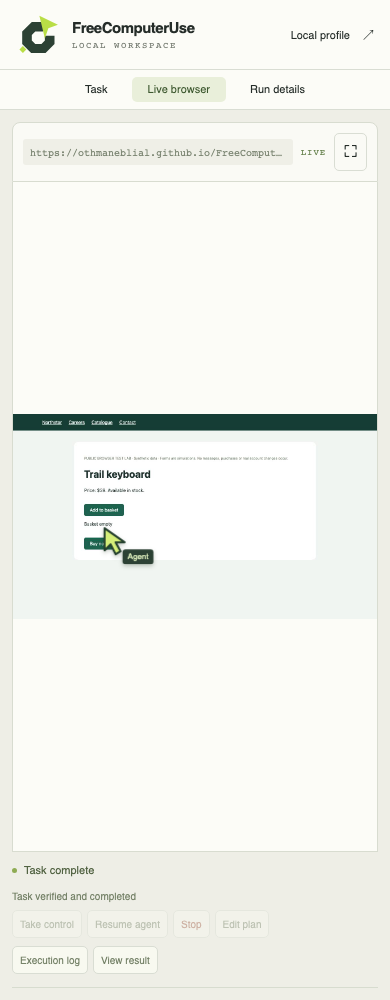
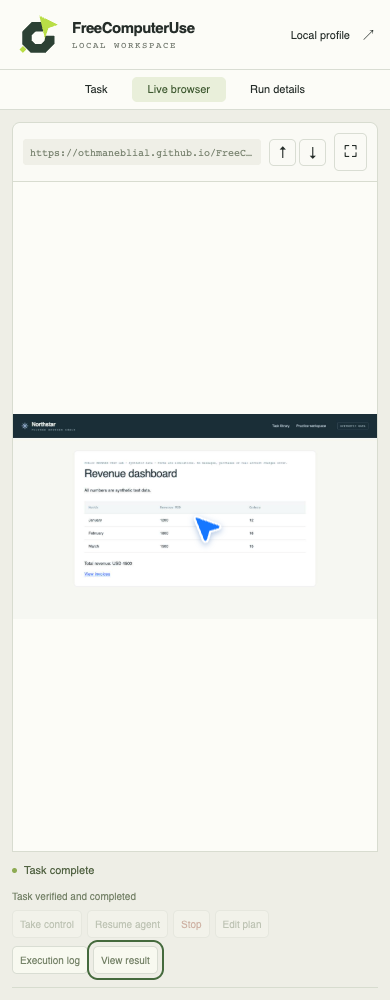
docs: verify keyboard-first sandbox onboarding

diff --git a/scripts/ui-smoke.ts b/scripts/ui-smoke.ts
@@ -11,10 +11,16 @@ const dashboard=await startServer({port:0,quiet:true});const browser=await new B
 const errors:string[]=[];browser.page.on('pageerror',error=>errors.push(error.message));browser.page.on('console',message=>{if(message.type()==='error')errors.push(message.text());});
 try{
   await browser.page.setViewportSize({width:1600,height:1000});await browser.navigate(dashboard.url);
-  await browser.page.locator('#start-url').fill(`https://othmaneblial.github.io/FreeComputerUse/lab/${interaction?'catalogue':'reports'}.html`);
-  await browser.page.locator('#goal').fill(interaction?'Type keyboard into Search products, open Trail keyboard, then extract the product name, price and stock availability.':'Extract the table');
+  const startURL=`https://othmaneblial.github.io/FreeComputerUse/lab/${interaction?'catalogue':'reports'}.html`,goal=interaction?'Type keyboard into Search products, open Trail keyboard, then extract the product name, price and stock availability.':'Extract the table';
+  if(interaction){await browser.page.locator('#start-url').fill(startURL);await browser.page.locator('#goal').fill(goal);}
+  else{
+    const focusId=()=>browser.page.evaluate(()=>{const element=document.activeElement;return element?.id||(element?.getAttribute('aria-label')==='FreeComputerUse home'?'home':'');});
+    const focusWithTab=async(id:string)=>{for(let i=0;i<24&&await focusId()!==id;i++)await browser.page.keyboard.press('Tab');if(await focusId()!==id)throw new Error(`Keyboard focus did not reach ${id}`);};
+    await focusWithTab('home');await focusWithTab('profile-open');await focusWithTab('start-url');await browser.page.keyboard.type(startURL);
+    await focusWithTab('goal');await browser.page.keyboard.type(goal);await focusWithTab('options-open');await focusWithTab('run');await browser.page.keyboard.press('Enter');
+  }
   if(interaction){await browser.page.getByRole('button',{name:'Run options'}).click();await browser.page.locator('#use-workflows').uncheck();await browser.page.getByRole('button',{name:'Close run options'}).click();}
-  await browser.page.getByRole('button',{name:'Run task',exact:true}).click();
+  if(interaction)await browser.page.getByRole('button',{name:'Run task',exact:true}).click();
   await browser.page.locator('#approval').waitFor({state:'visible',timeout:20000});
   if(dashboard.getAgent()?.browser.page.url()!=='about:blank')throw new Error('Site visited before dashboard approval');
   await mkdir('artifacts/ui',{recursive:true});await browser.page.screenshot({path:'artifacts/ui/permission.png'});
@@ -22,15 +28,17 @@ try{
     await browser.page.waitForFunction(()=>['fill','type'].includes(document.querySelector('#agent-cursor')?.getAttribute('data-kind')??''),undefined,{timeout:90000});
     await browser.page.screenshot({path:'artifacts/ui/interaction.png'});
   })().then(()=>({captured:true as const}),error=>({captured:false as const,error:String(error)})):undefined;
-  await browser.page.getByRole('button',{name:'Approve action',exact:true}).click();
+  if(interaction)await browser.page.getByRole('button',{name:'Approve action',exact:true}).click();
+  else{const focusId=()=>browser.page.evaluate(()=>document.activeElement instanceof HTMLElement?document.activeElement.id:'');for(let i=0;i<24&&await focusId()!=='approve';i++)await browser.page.keyboard.press('Tab');if(await focusId()!=='approve')throw new Error('Keyboard focus did not reach site approval');await browser.page.keyboard.press('Enter');}
   await browser.page.waitForFunction(()=>document.querySelector('#status')?.textContent==='COMPLETED',undefined,{timeout:90000});
   try{await browser.page.waitForFunction(()=>(document.querySelector('#preview') as HTMLImageElement)?.naturalWidth>0,undefined,{timeout:10000});}catch(error){console.log(JSON.stringify({errors,preview:await browser.page.locator('#preview').evaluate(el=>({src:(el as HTMLImageElement).src,width:(el as HTMLImageElement).naturalWidth,hidden:(el as HTMLImageElement).hidden})),status:dashboard.getAgent()?.trace?.status}));throw error;}
-  await browser.page.getByRole('button',{name:'View result'}).click();
+  if(interaction)await browser.page.getByRole('button',{name:'View result'}).click();
+  else{const focusId=()=>browser.page.evaluate(()=>document.activeElement instanceof HTMLElement?document.activeElement.id:'');for(let i=0;i<24&&await focusId()!=='result-open';i++)await browser.page.keyboard.press('Tab');if(await focusId()!=='result-open')throw new Error('Keyboard focus did not reach task result');await browser.page.keyboard.press('Enter');}
   const output=await browser.page.locator('#result-output').innerText();
   if(!output.includes(interaction?'Trail keyboard':'March'))throw new Error('Dashboard did not show extracted results');
   if(interaction&&(!output.includes('$39')||!output.includes('Available in stock')||!dashboard.getAgent()?.browser.page.url().endsWith('/product.html')))throw new Error('Product details or destination failed the independent oracle');
   const capture=await cursorCapture;if(capture&&!capture.captured)throw new Error('Visible typing cursor was not captured: '+capture.error);
-  await browser.page.getByRole('button',{name:'Close task result'}).click();
+  if(interaction)await browser.page.getByRole('button',{name:'Close task result'}).click();else await browser.page.keyboard.press('Escape');
   for(const [name,width] of [['desktop',1600],['mobile',390]] as const){
     await browser.page.setViewportSize({width,height:1000});await browser.page.waitForTimeout(600);
     if(!await browser.page.evaluate(()=>document.documentElement.scrollWidth<=innerWidth))throw new Error('Responsive overflow');

diff --git a/README.md b/README.md
@@ -37,7 +37,7 @@ The model does not run shell commands or arbitrary JavaScript. Browser previews 
 
 ## Quick start
 
-Requires **Node.js 22.13+**, npm and a browser Playwright can launch. If Google Chrome is already installed, set `FCU_BROWSER_CHANNEL=chrome` in `.env` to avoid downloading Playwright Chromium. Playwright works best with its matching browser build; see the [browser compatibility note](https://playwright.dev/docs/api/class-browsertype#browser-type-launch) before relying on a system browser.
+Requires **Node.js 22.13+**, npm and an installed browser. The verified first-run setup is macOS 26.6 (Apple Silicon), Node 25.9.0 and system Chrome 154.0.8037.57. The declared Node minimum and other OS/browser combinations remain unverified. This setup selects installed Chrome and avoids a separate Playwright browser download; see the [support matrix](docs/SUPPORT_MATRIX.md) for the full-suite limitation.
 
 ```bash
 git clone https://github.com/OthmaneBlial/FreeComputerUse.git
@@ -47,11 +47,12 @@ cp .env.example .env
 chmod 600 .env
 ```
 
-Set `FCU_BROWSER_CHANNEL=chrome` in `.env` if Chrome is already installed. Playwright-managed Chromium can be installed separately if no supported browser is present.
+Set `FCU_BROWSER_CHANNEL=chrome` in `.env` to use the verified installed-Chrome path without downloading a browser binary.
 
-Set a model API key in `.env`, then run the local workspace:
+For model-planned tasks, configure a provider in `.env`. The browser sandbox task below works without a model key:
 
 ```dotenv
+FCU_BROWSER_CHANNEL=chrome
 LLM_PROVIDER=openai-compatible
 LLM_API_KEY=your-key
 LLM_BASE_URL=https://api.deepseek.com
@@ -59,6 +60,7 @@ LLM_MODEL=deepseek-flash
 ```
 
 ```bash
+npm run agent -- doctor
 npm run dev
 ```
 
